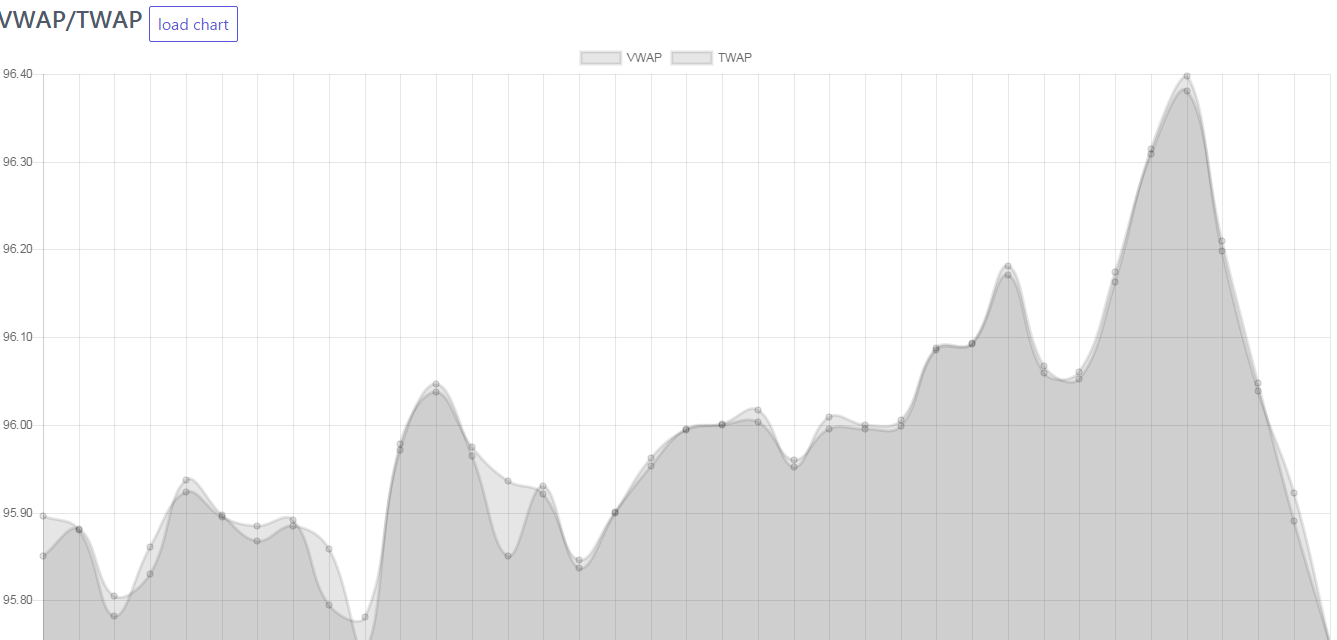
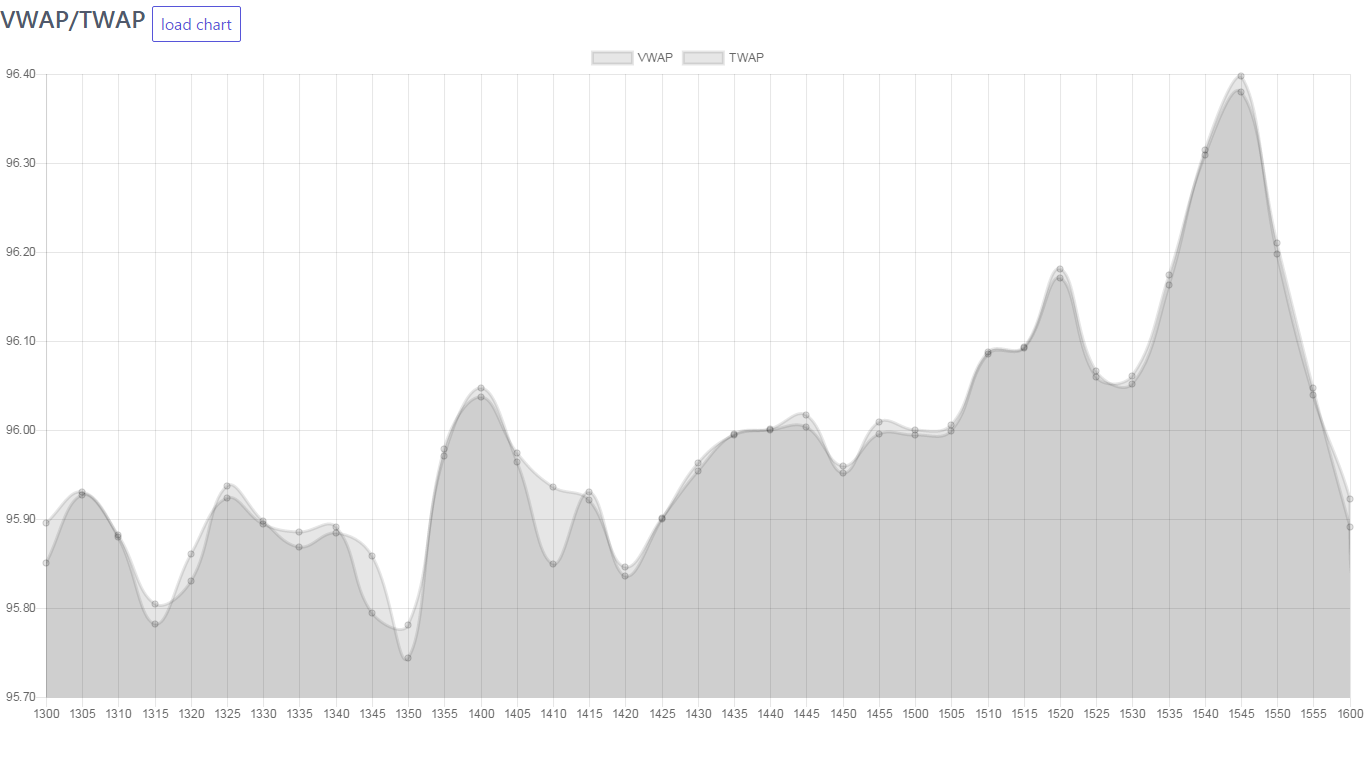
20171129-v1

diff --git a/js/wap.js b/js/wap.js
@@ -61,7 +61,7 @@ function getMinutesArry(startime,endtime,minute){
 function loadData()
 {
     //兼容IE、谷歌
-    var secondArry= getMinutesArry('2013/01/03 13:00','2013/01/03 16:00',5)
+    var secondArry= getMinutesArry('2013/01/03 12:55','2013/01/03 16:00',5)
     var logArry=new Array();
     Enumerable.From(arguments[1]).ForEach(function(value,index){
         var tmp_time=value.trade_time.substring(0,4);
@@ -69,11 +69,13 @@ function loadData()
     });
     var vwapChartArry=new Array();
     var twapChartArry=new Array();
+    console.log(secondArry)
     for(i=0;i<secondArry.length;i++)
     {   
         if (i==0)
         {
             var arrRes = Enumerable.From(logArry).Where(function(x){return x.time<secondArry[i]}).ToArray();
+            console.log(arrRes)
         }
         else if ((i+1)==secondArry.length)
         {
@@ -104,11 +106,12 @@ function loadData()
 
 function loadChart()
 {
+    arguments[0].shift()
     var ctx = document.getElementById("chart_vwap").getContext('2d');
     var myChart = new Chart(ctx, {
         type: 'line',
         data: {
-            labels : arguments[0],
+            labels :  arguments[0],
             datasets : [
                 {
                     label:"VWAP",
